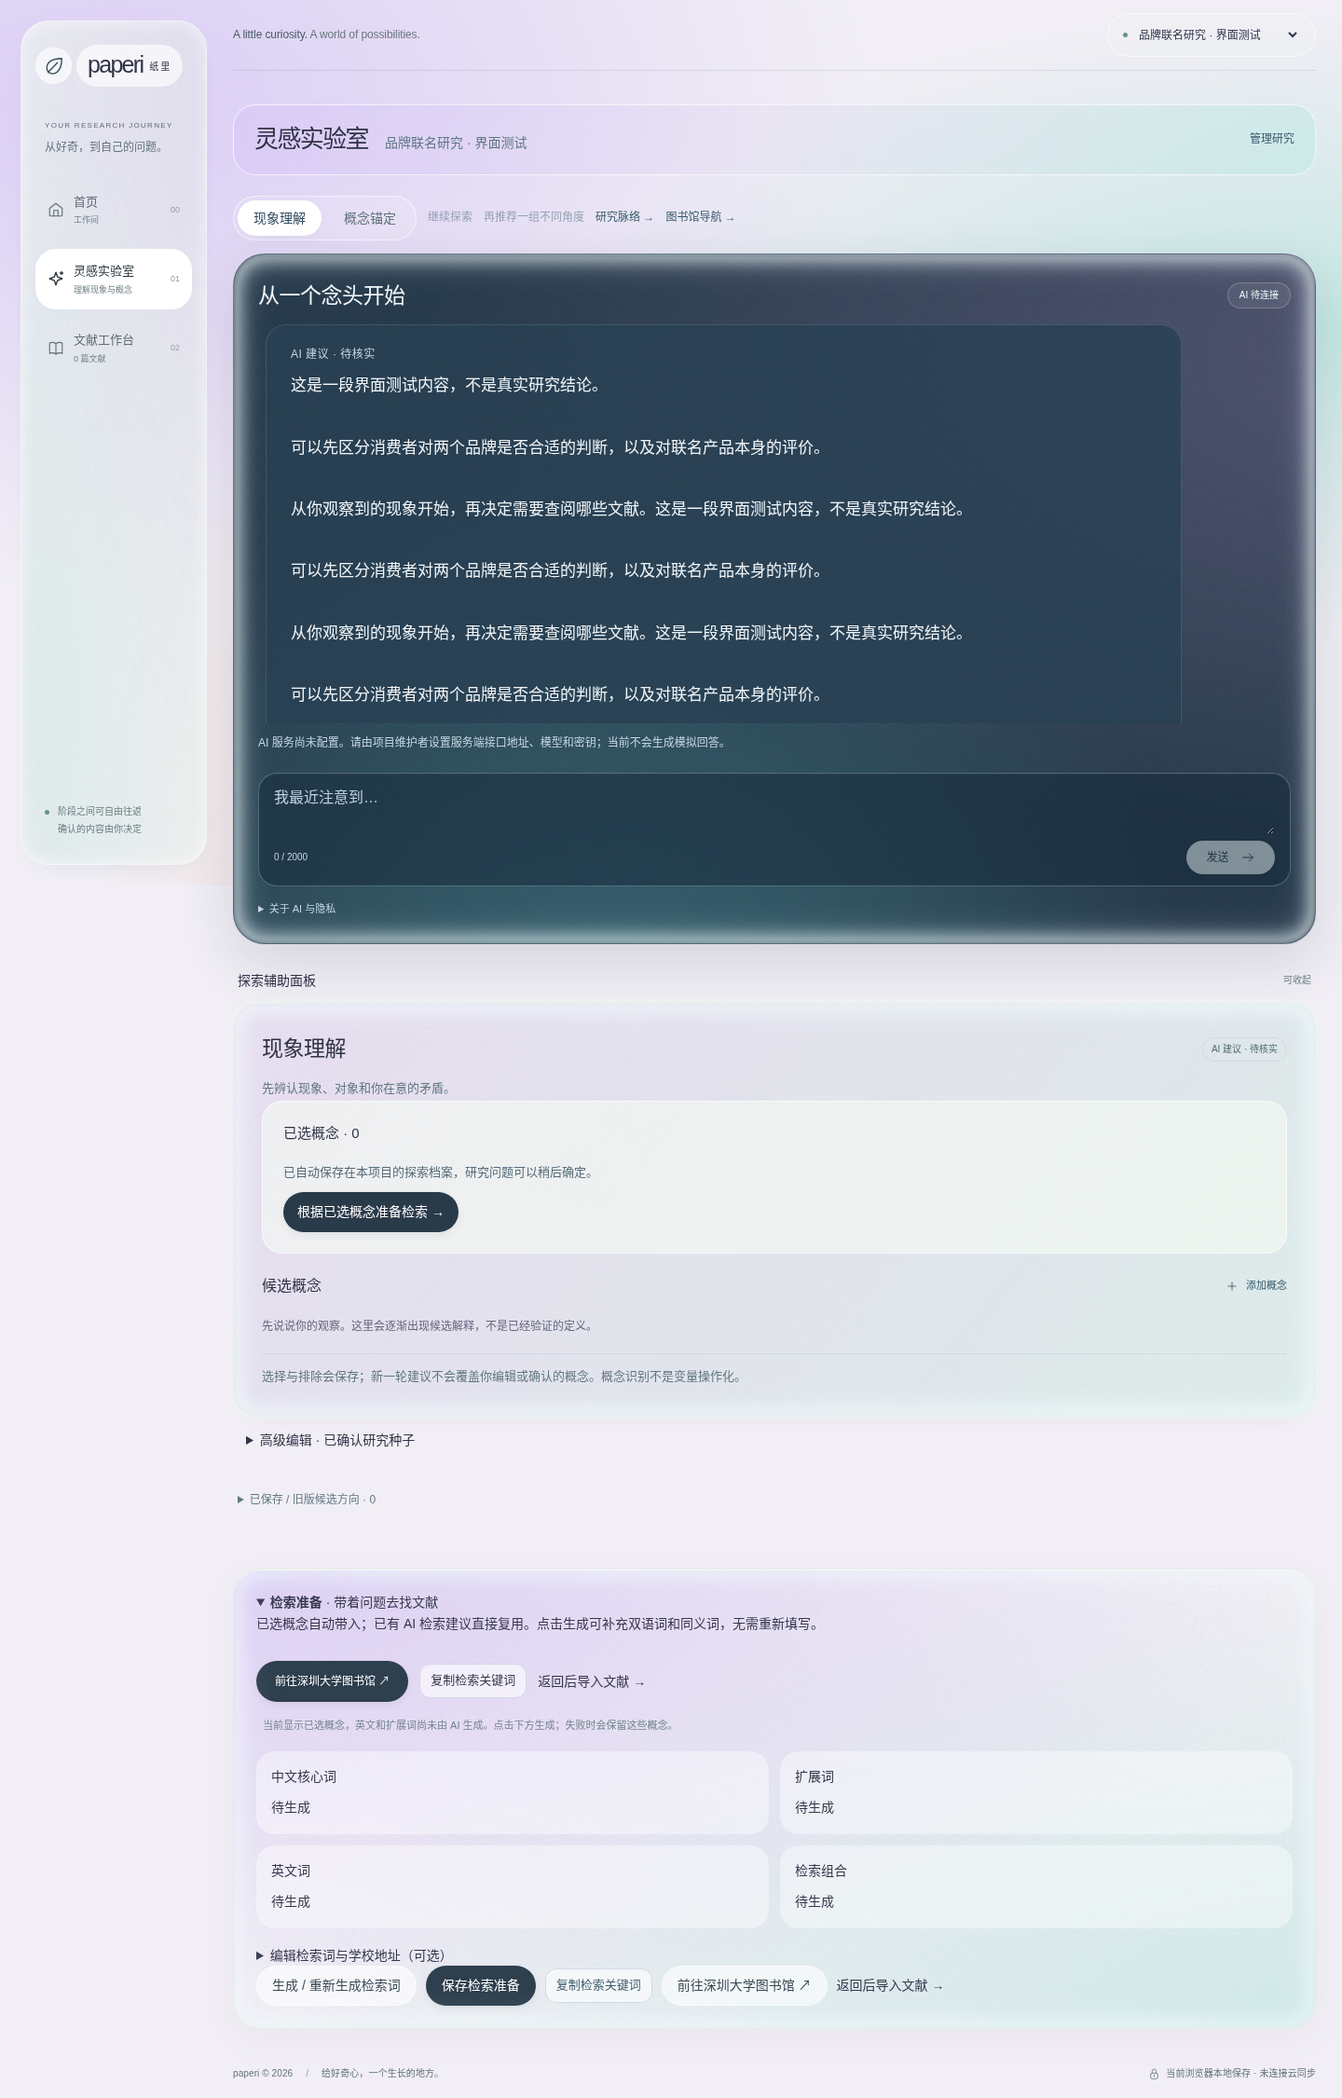
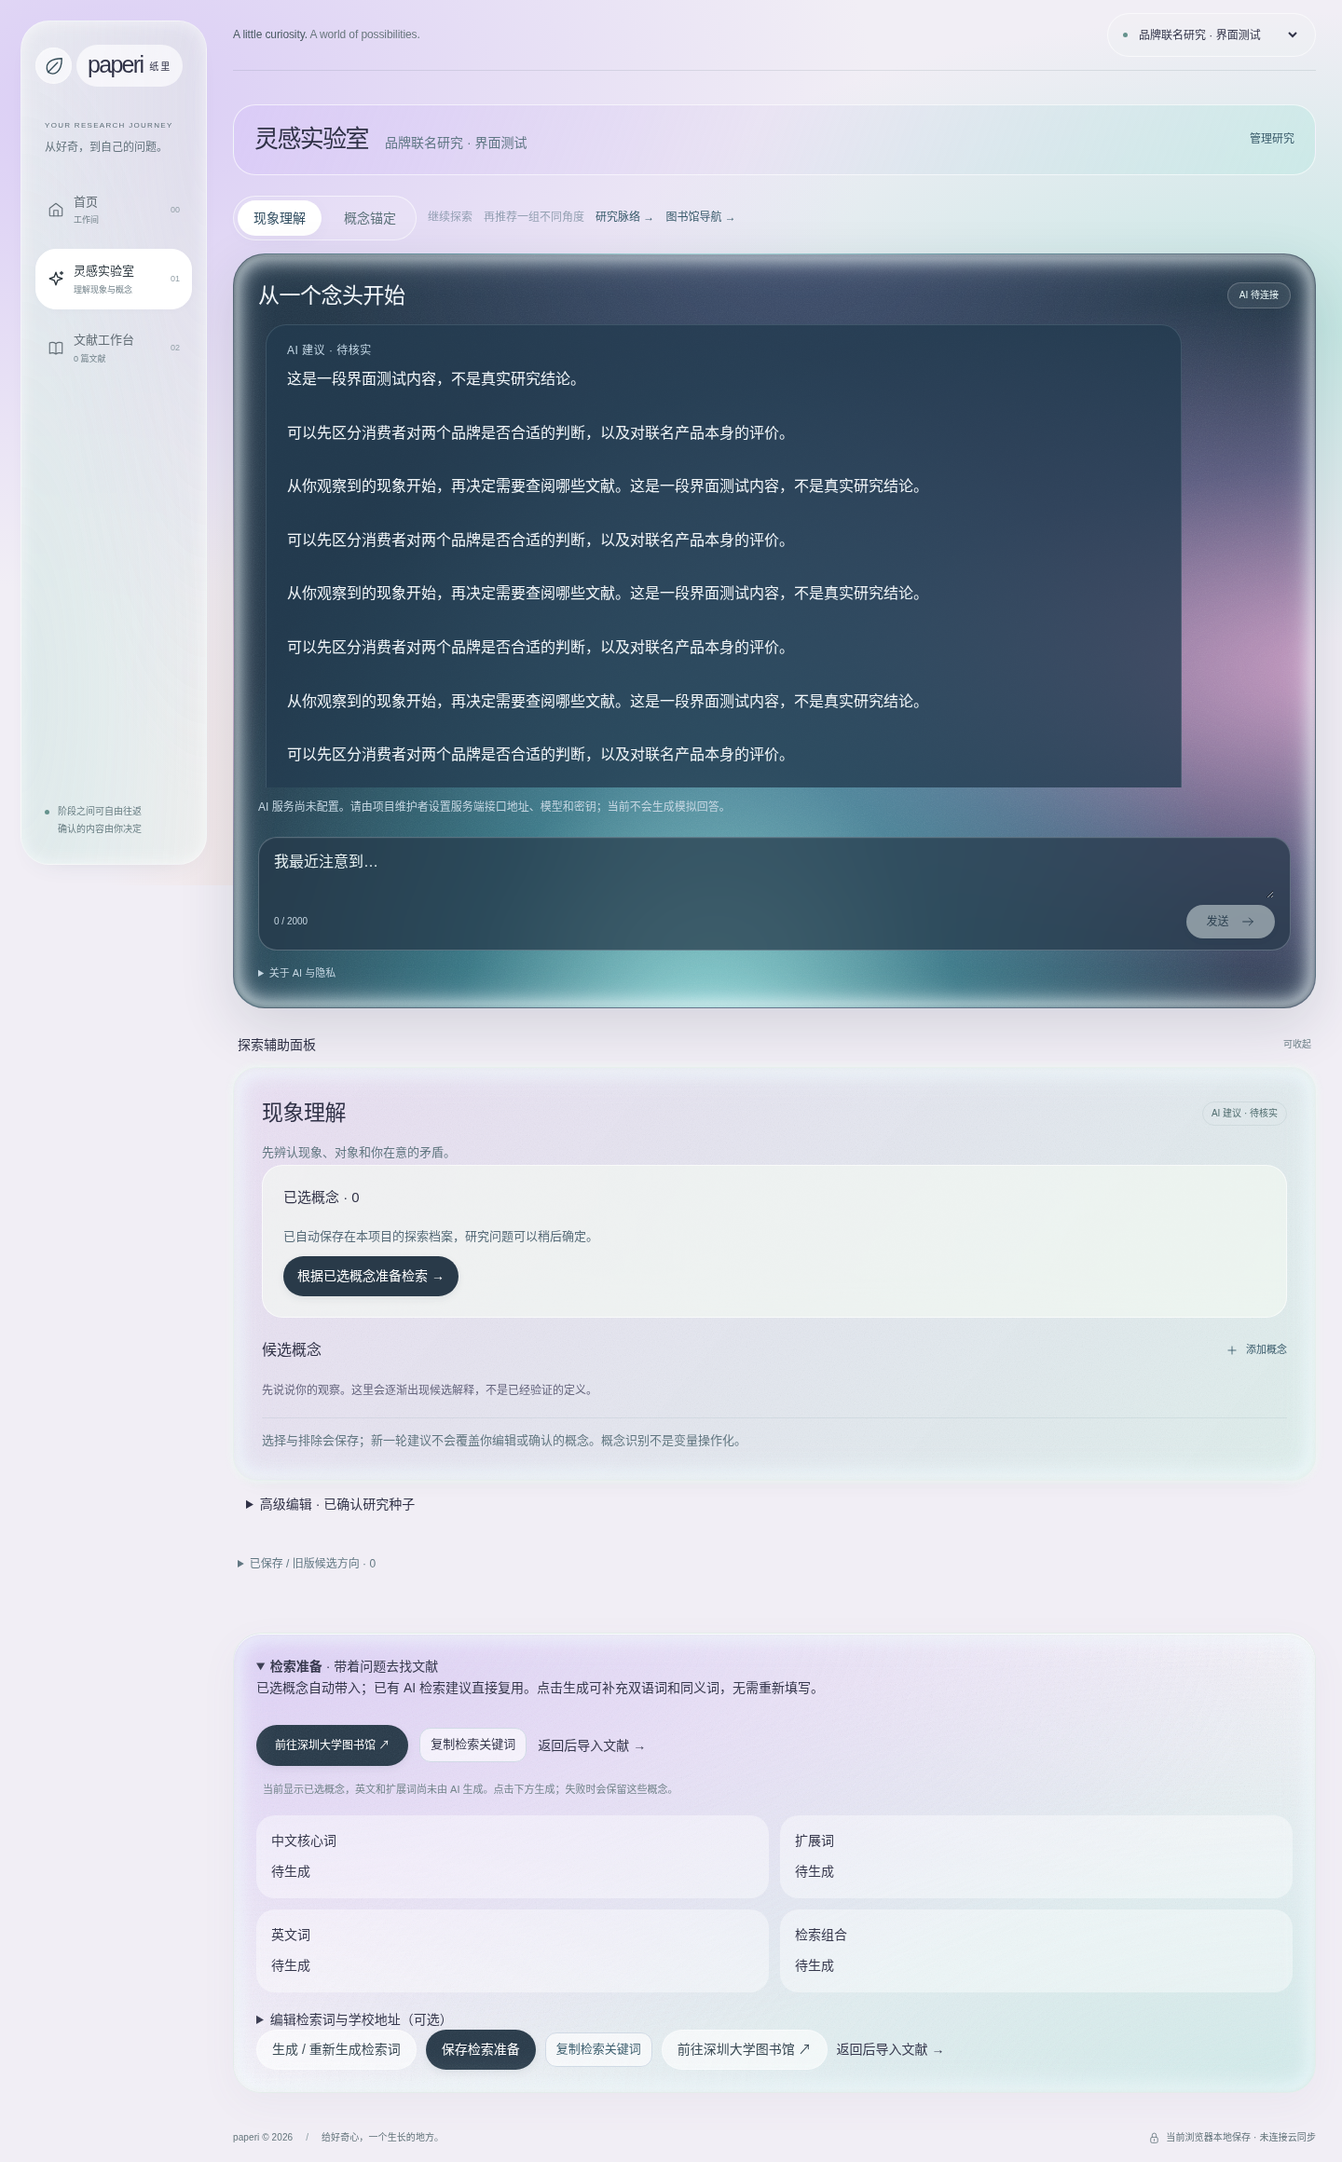
Tighten study typography and extend Hero-style conversation

diff --git a/src/app/globals.css b/src/app/globals.css
@@ -76,7 +76,7 @@ h1 { font-size: clamp(29px, 2.7vw, 40px); font-weight: 400; line-height: 1.45; l
 .frosted-surface { position: relative; isolation: isolate; border: 1px solid #e3ece9; border-radius: var(--radius); box-shadow: var(--edge), 0 0 7px 2px #eef6f3a6, 0 12px 28px -22px #3b4d6233; overflow: hidden; }
 .frosted-surface::before { content: ''; position: absolute; z-index: 0; inset: 0; border-radius: inherit; background: url('/grain.svg'); opacity: .52; mix-blend-mode: soft-light; pointer-events: none; }
 .frosted-surface::after { content: ''; position: absolute; z-index: 5; inset: -1px; border: 3px solid #edf5f1b3; border-radius: inherit; box-shadow: inset 0 0 17px 4px #f3fcffb3, inset 0 0 38px 4px #eaf5ff45; filter: blur(3px); pointer-events: none; }
-.hero { min-height: 342px; padding: 26px 30px 22px; color: #f8fcfd; background: radial-gradient(ellipse at 44% 115%, #a7eeea 0%, #4baab68c 31%, transparent 64%), radial-gradient(ellipse at 110% 55%, #d5a2ca 0%, #9885bb7a 35%, transparent 64%), radial-gradient(ellipse at 52% -40%, #737ab078, transparent 64%), #233647; }
+.hero { min-height: 342px; padding: 26px 30px 22px; color: #f8fcfd; background: var(--paperi-hero-surface); }
 .hero>* { position: relative; z-index: 2; }
 .hero-topline { display: flex; justify-content: space-between; align-items: center; gap: 12px; font-size: 12px; font-weight: 400; color: #e7eff4; }
 .hero-topline>span:first-child { display: inline-flex; align-items: center; gap: 9px; }.hero-edition { font-size: 9px; letter-spacing: 1.9px; opacity: .8; }
@@ -668,14 +668,15 @@ body{background:radial-gradient(ellipse at 8% 12%,#dacdf5 0%,transparent 44%),ra
 
 /* Hero language carried into the core workspace: dark conversation, light reading. */
 :root {
+  --paperi-hero-surface:radial-gradient(ellipse at 44% 115%, #a7eeea 0%, #4baab68c 31%, transparent 64%), radial-gradient(ellipse at 110% 55%, #d5a2ca 0%, #9885bb7a 35%, transparent 64%), radial-gradient(ellipse at 52% -40%, #737ab078, transparent 64%), #233647;
   --paperi-ink:#293b4b; --paperi-chat:#233647;
   --paperi-lilac:#e9def4; --paperi-mint:#d7eee5; --paperi-peach:#f2e0d5;
 }
 .lab-grid {grid-template-columns:minmax(0,1fr);gap:28px;}
 .lab-chat {
-  height:clamp(620px,78dvh,850px);min-height:620px;
+  height:clamp(760px,calc(100dvh - 140px),1000px);min-height:760px;
   color:#f2f7fb;border:1px solid #edf8ff40;
-  background:radial-gradient(ellipse at 35% 130%,#4a9ca27a,transparent 60%),radial-gradient(ellipse at 115% 15%,#a587ba57,transparent 60%),var(--paperi-chat);
+  background:var(--paperi-hero-surface);
   box-shadow:inset 0 1px 0 #ffffff26,0 20px 60px #22324724;
 }
 .lab-chat .lab-panel-heading h2 {color:#f2f7fb;}
@@ -683,13 +684,13 @@ body{background:radial-gradient(ellipse at 8% 12%,#dacdf5 0%,transparent 44%),ra
 .lab-chat .lab-observation {color:#edf5fa;background:#ffffff0d;border:1px solid #ffffff22;}
 .lab-chat .lab-observation span {color:#cbdce6;}
 .lab-transcript {min-height:260px;max-height:none;padding:14px 8px 22px;scrollbar-color:#8da6b3 transparent;}
-.lab-chat .chat-message {background:#294154d9;border:1px solid #aecad52e;color:#f0f5f8;box-shadow:none;padding:22px 26px;margin-bottom:20px;max-width:90%;}
+.lab-chat .chat-message {background:#233b50c7;border:1px solid #aecad52e;color:#f0f5f8;box-shadow:none;padding:18px 22px;margin-bottom:20px;max-width:90%;}
 .lab-chat .chat-message>span {color:#c2d6e4;font-size:12px;letter-spacing:.04em;}
-.lab-chat .chat-message p {color:#f0f5f8;line-height:1.95;font-size:17px;}
+.lab-chat .chat-message p {color:#f0f5f8;line-height:1.8;font-size:16px;}
 .lab-chat .chat-user {background:#436074d9;border-color:#b1c8d539;margin-left:auto;}
-.lab-chat .lab-composer {padding:12px 16px;background:#162a3d8c;border:1px solid #bdd9e74d;box-shadow:inset 0 1px 0 #ffffff0d;}
+.lab-chat .lab-composer {padding:12px 16px;background:#233647b3;border:1px solid #edf8ff40;backdrop-filter:blur(26px);box-shadow:inset 0 1px 0 #ffffff0d;}
 .lab-chat .lab-composer textarea {color:#fff;background:transparent;min-height:54px;height:54px;max-height:90px;font-size:16px;}
-.lab-chat .lab-composer textarea::placeholder {color:#bfd0de;}
+.lab-chat .lab-composer textarea::placeholder {color:#e7f1f2;}
 .lab-chat .lab-composer>div>span {color:#c5d5e0;}
 .lab-chat .lab-composer .button.primary {background:#edf7f5;color:#253e49;}
 .lab-chat .lab-connection,.lab-chat .lab-privacy,.lab-chat .lab-retry,.lab-chat .lab-welcome>span {color:#c5d6e2;}
@@ -714,43 +715,45 @@ body{background:radial-gradient(ellipse at 8% 12%,#dacdf5 0%,transparent 44%),ra
 .concept-excluded {opacity:.8;}
 .selected-concepts-bar {padding:22px;background:#f4f9f3ad;border:1px solid #ffffffb0;border-radius:22px;position:static;}
 .study-workspace {color:var(--paperi-ink);}
-.study-header {padding:8px 2px 18px;}
-.study-header h2 {font-size:clamp(26px,3vw,34px);margin:10px 0;font-weight:500;}
-.study-header>p {font-size:16px;line-height:1.8;color:#525b6d;}
-.paper-identity {border-radius:26px;background:linear-gradient(120deg,#e9def3c2,#e1efe9b0);padding:28px 32px;}
-.paper-identity h3 {font-size:24px;line-height:1.6;margin:22px 0 8px;}
-.paper-identity>p {line-height:1.9;font-size:15px;}
-.study-reading-layout {display:grid;grid-template-columns:170px minmax(0,1fr);gap:28px;align-items:start;margin-top:30px;}
-.study-toc {display:flex;flex-direction:column;gap:16px;margin:14px 0;font-size:14px;position:sticky;top:24px;}
+.study-workspace {margin:20px 0;}
+.study-header {padding:4px 2px 10px;margin:14px 0;}
+.study-header h2 {font-size:26px;margin:6px 0;font-weight:500;}
+.study-header>p {font-size:14px;line-height:1.7;color:#525b6d;}
+.paper-identity {border-radius:26px;background:linear-gradient(120deg,#e9def3c2,#e1efe9b0);padding:18px 24px;}
+.paper-identity h3 {font-size:19px;line-height:1.5;margin:14px 0 6px;}
+.paper-identity>p {line-height:1.7;font-size:14px;}
+.study-reading-layout {display:grid;grid-template-columns:145px minmax(0,1fr);gap:20px;align-items:start;margin-top:20px;}
+.study-toc {display:flex;flex-direction:column;gap:10px;margin:10px 0;font-size:13px;position:sticky;top:24px;}
 .study-toc a {text-decoration:none;line-height:1.7;color:#5c5172;border-left:2px solid #b5a2cc;padding-left:12px;}
 .study-toc a:hover {color:#29394e;border-color:#705583;}
-.study-section {padding:32px 38px;margin:0 0 24px;background:#f9f6fcbd;}
+.study-section {padding:20px 24px;margin:0 0 14px;background:#f9f6fcbd;}
 .study-section:nth-child(2n) {background:#eef8f1b8;}
 .study-section:nth-child(3n) {background:#fff2e8b8;}
-.study-section h3 {font-size:23px;line-height:1.5;margin:12px 0 18px;}
-.study-section p {font-size:17px;line-height:2;margin:14px 0;overflow-wrap:anywhere;}
+.study-section h3 {font-size:18px;line-height:1.5;margin:6px 0 10px;}
+.study-section p {font-size:15px;line-height:1.7;margin:8px 0;overflow-wrap:anywhere;}
 .study-lead {background:linear-gradient(120deg,#e5d7f5e6,#d9ede5cc);border-color:#fff;}
-.study-lead>p {font-size:20px;line-height:1.9;}
+.study-lead>p {font-size:16px;line-height:1.8;}
 .study-insufficient {border-left:3px solid #c3a56f;}
-.study-evidence {padding-top:14px;border-top:1px solid #aaa0bd3b;font-size:14px;}
+.study-evidence {padding-top:10px;border-top:1px solid #aaa0bd3b;font-size:14px;}
 .study-evidence summary {cursor:pointer;color:#55446b;}
-.study-evidence p {font-size:14px;line-height:1.9;}
+.study-evidence p {font-size:14px;line-height:1.7;}
 .study-evidence blockquote {font-size:15px;background:#ffffff80;border-radius:0 16px 16px 0;}
 .study-section-number {color:#746481;letter-spacing:.16em;}
-.direction-candidates {display:grid;grid-template-columns:repeat(3,minmax(0,1fr));gap:18px;}
+.direction-candidates {display:grid;grid-template-columns:repeat(3,minmax(0,1fr));gap:14px;margin:22px 0;}
 .direction-candidates>h3,.direction-candidates>p {grid-column:1/-1;}
-.direction-choice {margin:0;background:linear-gradient(150deg,#eee4f6d6,#f9f4f1b3);padding:24px;display:flex;flex-direction:column;}
+.direction-choice {margin:0;background:linear-gradient(150deg,#eee4f6d6,#f9f4f1b3);padding:20px;display:flex;flex-direction:column;}
 .direction-choice:nth-of-type(2n) {background:linear-gradient(150deg,#dcefe5d9,#f4faf1b3);}
 .direction-choice:nth-of-type(3n) {background:linear-gradient(150deg,#f1e0d3d9,#faf3eeb3);}
-.direction-choice h4 {font-size:23px;line-height:1.5;margin:14px 0;}
-.direction-choice p {font-size:15px;line-height:1.9;}
+.direction-choice h4 {font-size:18px;line-height:1.5;margin:8px 0;}
+.direction-choice p {font-size:14px;line-height:1.7;margin:6px 0;}
+.direction-choice h5 {font-size:14px;margin:12px 0 4px;}
 .direction-choice .button {margin-top:auto;align-self:start;}
-.my-direction-card {padding:36px;background:linear-gradient(125deg,#e2d7f0d4,#d9eee6c4);}
-.my-direction-card>h3 {font-size:28px;margin:12px 0 28px;}
-.direction-readable>h4 {font-size:27px;line-height:1.6;margin-bottom:24px;}
+.my-direction-card {padding:24px;margin:22px 0;background:linear-gradient(125deg,#e2d7f0d4,#d9eee6c4);}
+.my-direction-card>h3 {font-size:22px;margin:8px 0 18px;}
+.direction-readable>h4 {font-size:21px;line-height:1.5;margin-bottom:16px;}
 .direction-readable {max-width:78ch;}
-.direction-readable h5 {font-size:16px;margin:26px 0 10px;color:#645276;}
-.direction-readable p {font-size:18px;line-height:1.9;white-space:pre-wrap;}
+.direction-readable h5 {font-size:14px;margin:16px 0 6px;color:#645276;}
+.direction-readable p {font-size:15px;line-height:1.75;white-space:pre-wrap;}
 .direction-fields {display:grid;grid-template-columns:repeat(2,minmax(0,1fr));gap:20px;}
 .direction-fields>label {display:block;font-size:15px;font-weight:600;}
 .direction-fields>label:first-child {grid-column:1/-1;}
@@ -760,11 +763,11 @@ body{background:radial-gradient(ellipse at 8% 12%,#dacdf5 0%,transparent 44%),ra
 @media(max-width:1150px) {
   .lab-directions .concept-card-list,.direction-candidates {grid-template-columns:repeat(2,minmax(0,1fr));}
   .study-reading-layout {grid-template-columns:145px minmax(0,1fr);gap:18px;}
-  .study-section {padding:28px;}
+  .study-section {padding:20px 22px;}
 }
 @media(max-width:700px) {
   .lab-grid {grid-template-columns:1fr;}
-  .lab-chat {height:clamp(630px,86svh,800px);min-height:630px;padding:20px;}
+  .lab-chat {height:max(740px,calc(100svh - 80px));min-height:740px;padding:20px;}
   .lab-transcript {min-height:240px;}
   .lab-chat .chat-message {max-width:100%;padding:18px;}
   .lab-chat .chat-message p {font-size:16px;}
@@ -772,10 +775,10 @@ body{background:radial-gradient(ellipse at 8% 12%,#dacdf5 0%,transparent 44%),ra
   .lab-directions .concept-card-list,.direction-candidates,.direction-fields {grid-template-columns:1fr;}
   .study-reading-layout {display:block;}
   .study-toc {position:static;flex-direction:row;flex-wrap:wrap;padding-bottom:12px;}
-  .study-section,.my-direction-card,.paper-identity {padding:24px 20px;}
-  .study-section p {font-size:16px;line-height:1.95;}
-  .study-lead>p {font-size:18px;}
-  .direction-readable>h4 {font-size:23px;}
+  .study-section,.my-direction-card,.paper-identity {padding:18px;}
+  .study-section p {font-size:15px;line-height:1.7;}
+  .study-lead>p {font-size:16px;}
+  .direction-readable>h4 {font-size:20px;}
 }
 @media print {
   body * {visibility:hidden;}

diff --git a/tests/core-visual.spec.ts b/tests/core-visual.spec.ts
@@ -10,12 +10,13 @@ import {
 import { emptyLibrary } from "../src/lib/literature";
 import { importedPaper } from "../src/lib/bibliography";
 import type { Project } from "../src/lib/projects";
-for (const width of [1440, 390])
+for (const {width,height} of [{width:1440,height:950},{width:390,height:950},{width:1366,height:768}])
   test(`深色聊天、分组概念与精析阅读布局 ${width}px（布局夹具，非AI验收）`, async ({
     page,
   }) => {
-    await page.setViewportSize({ width, height: 950 });
+    await page.setViewportSize({ width, height });
     await page.goto("/");
+    const heroPaint=await page.locator(".hero").evaluate(el=>getComputedStyle(el).backgroundImage);
     mkdirSync("docs/screenshots/core", { recursive: true });
     await page.screenshot({
       path: `docs/screenshots/core/hero-${width}.png`,
@@ -133,6 +134,12 @@ for (const width of [1440, 390])
         ].map(section),
       },
     ];
+    p.workflow!.analyses.push({
+      id:"context",kind:"directions",fingerprint:sourceFingerprint(p,false),sourceIds:["paper"],createdAt:at,
+      sections:[section("候选方向")],
+      synthesis:["总体研究了什么","理论与方法对比","发现与分歧","还需要哪些证据"].map(section),
+      cards:[1,2,3].map(i=>({title:`模拟候选方向 ${i}`,question:"拟比较不同情境中的消费者反应；仅用于版式检查。",value:"研究价值尚待真实文献核对。",method:"初步方法需要核实可行性，未执行真实研究。",limitations:"布局测试，不能证明 AI 分析质量。",evidenceIds:["paper"]}))
+    });
     await page.evaluate(
       (p) =>
         localStorage.setItem(
@@ -153,6 +160,8 @@ for (const width of [1440, 390])
     expect(
       await chat.evaluate((el) => getComputedStyle(el).backgroundColor),
     ).toBe("rgb(35, 54, 71)");
+    expect(await chat.evaluate(el=>getComputedStyle(el).backgroundImage)).toBe(heroPaint);
+    expect((await chat.boundingBox())!.height).toBeGreaterThanOrEqual(width>700?760:740);
     const transcript = await page.locator(".lab-transcript").boundingBox(),
       composer = await page.locator(".lab-composer").boundingBox();
     expect(transcript!.height).toBeGreaterThan(composer!.height * 2);
@@ -165,17 +174,19 @@ for (const width of [1440, 390])
     });
     await page.goto("/literature?mode=reading");
     await expect(page.locator(".study-section")).toHaveCount(7);
-    expect(
-      await page
-        .locator(".study-section p")
-        .first()
-        .evaluate((el) => parseFloat(getComputedStyle(el).lineHeight)),
-    ).toBeGreaterThan(30);
+    // Compact reading density: keep every section while avoiding oversized paragraphs.
+    const type=await page.locator(".study-section>p").nth(1).evaluate(el=>({size:parseFloat(getComputedStyle(el).fontSize),leading:parseFloat(getComputedStyle(el).lineHeight)}));
+    expect(type.size).toBeGreaterThanOrEqual(15);
+    expect(type.size).toBeLessThanOrEqual(16);
+    expect(type.leading/type.size).toBeGreaterThanOrEqual(1.6);
+    expect(type.leading/type.size).toBeLessThanOrEqual(1.8);
     await page.screenshot({
       path: `docs/screenshots/core/reading-${width}.png`,
       fullPage: true,
     });
     await page.goto("/literature?mode=context");
+    await expect(page.locator(".study-section")).toHaveCount(4);
+    await expect(page.locator(".direction-choice")).toHaveCount(3);
     await expect(page.locator(".direction-readable")).toContainText(
       "品牌联名反感从何而来",
     );

diff --git a/docs/CORE_REDUCTION.md b/docs/CORE_REDUCTION.md
@@ -26,6 +26,10 @@
 - 一次完整回归 **68/68 通过（1.7 分钟）**；此后新增保存恢复、最终视觉/打印收尾的定向回归 **7/7 通过（36.8 秒）**。覆盖 1440px 与 390px 实际 Chromium 渲染、深色背景、聊天阅读区大于输入区、精析章节间距、方向卡阅读/编辑/打印，以及核心数据流。测试失败的两处初始视觉断言因夹具标题不一致而修正，同时修正了打印样式优先级；没有把失败项跳过。
 - lint、typecheck、最终生产 build 通过；开发模式 PDF 单独复验 **1/1 通过（17.8 秒）**，没有浏览器 pageerror。生成并实际查看了 `docs/screenshots/core/` 的聊天、精析、方向卡截图；所有分析文字标注为布局夹具，不宣称是真实研究成果。
 
+### 后续视觉密度校正（2026-10-26）
+
+根据真实使用反馈，将精析/脉络正文收至 15px、1.7 倍行距，摘要 16px；同步缩小章节标题、内边距和段距，方向卡正文收至 15px。相同长内容夹具的精析页：1440px 桌面高度由 4308px 降至 3383px，390px 手机由 5867px 降至 4633px，约减少 21%，没有隐藏正文。聊天框加高，使用与 Hero 完全相同的青紫渐变变量；输入区保留深色玻璃衬底与独立布局。lint/typecheck/build 及 6 项浏览器检查通过，补充脉络综合结果和三方向卡后，3 个尺寸的视觉检查全部通过。覆盖 1440×950、390×950、1366×768；截图仍为明确标注的测试夹具。
+
 ## 真实能力边界
 
 云端没有真实 AI 密钥；用户本轮未提供三篇真实中文 PDF。因此**尚未在真实用户条件下验证**“三篇中文论文 → 精析正确性 → 跨文献脉络 → 有学术价值的方向卡”，不能宣称核心研究闭环已通过真实验收。测试中的期刊社真实书目仅证明导入/存储，不代替实际 PDF 或 AI 能力。扫描 PDF 无 OCR。正文候选识别对复杂版式/无标签作者年份会缺失，需要用户核对；没有把缺字段猜成事实。
